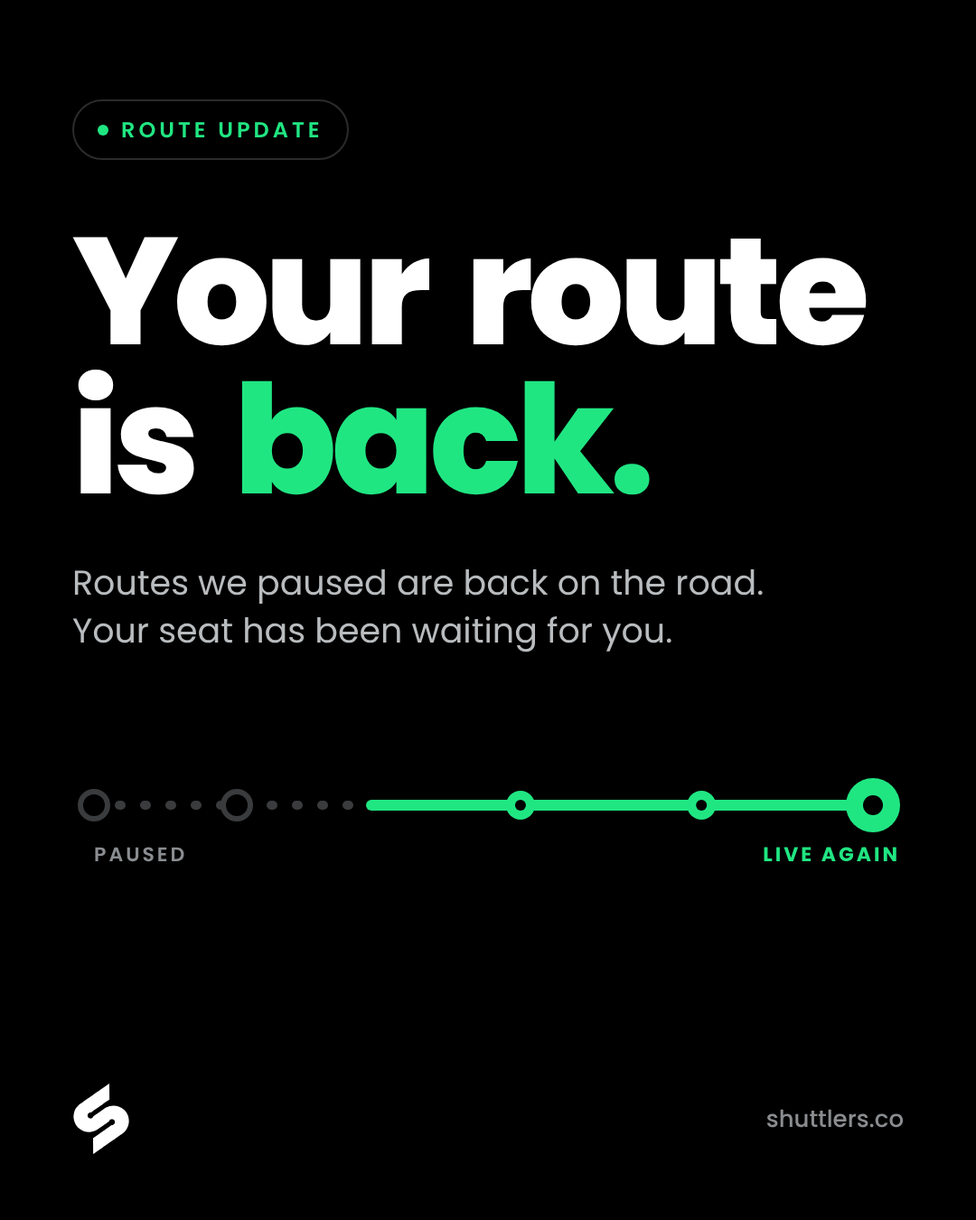
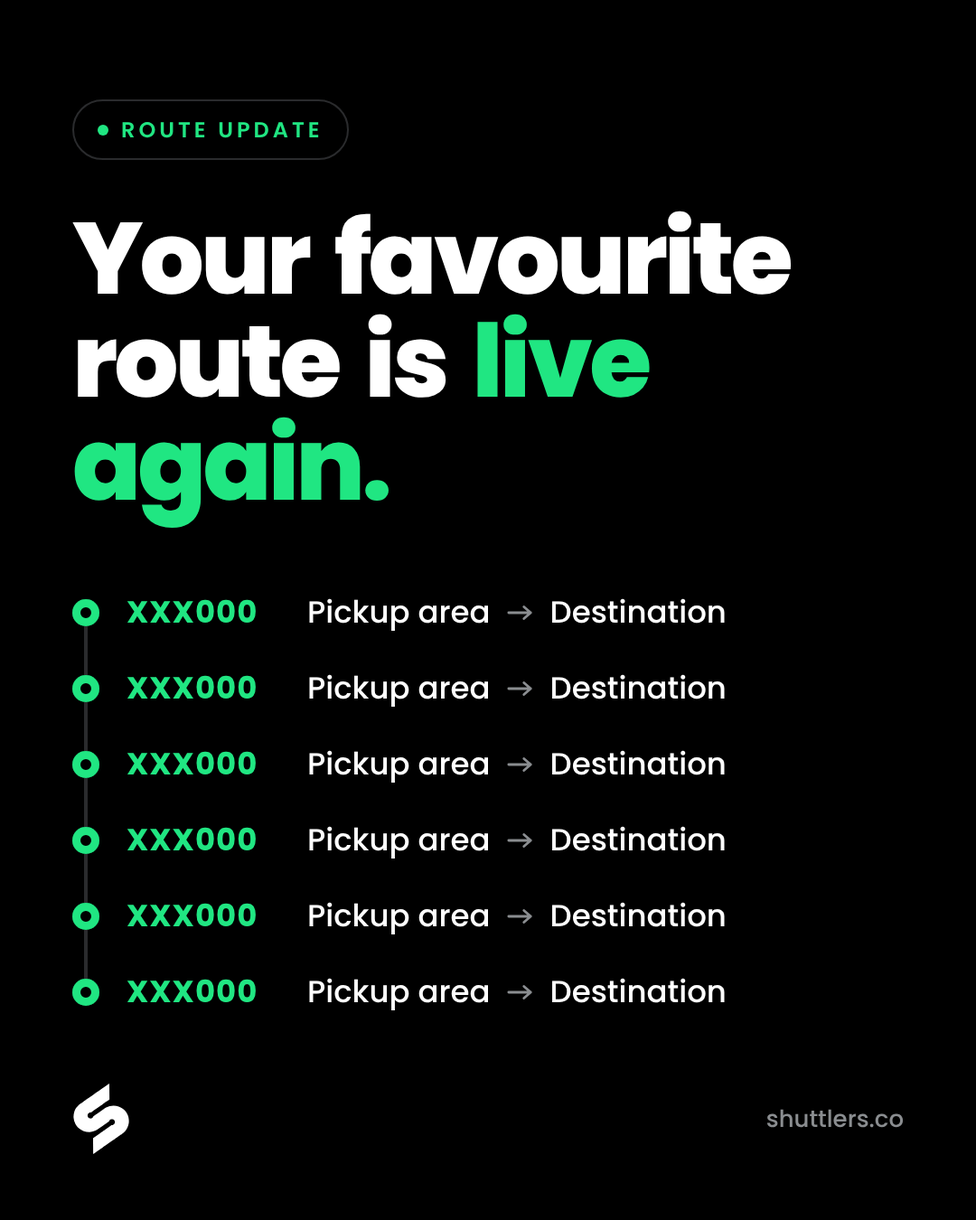
Route reactivation posts: 'Your favourite route is live again' headline with route list
Claude-Session: https://claude.ai/code/session_01ApNoEGoK6cJkGfaQAP275M

diff --git a/social/route-reactivation/posts.html b/social/route-reactivation/posts.html
@@ -14,7 +14,7 @@
 body{background:#1a1a1a;font-family:Poppins,sans-serif;-webkit-font-smoothing:antialiased;padding:40px;display:flex;flex-wrap:wrap;gap:40px}
 .frame{position:relative;overflow:hidden;flex:none}
 .pad{position:absolute;inset:0;padding:110px 80px 0}
-.pad.story{padding-top:260px}
+.pad.story{padding-top:220px}
 .pill{display:inline-flex;align-items:center;gap:14px;border:2px solid;border-radius:999px;padding:14px 26px;font-weight:600;font-size:24px;letter-spacing:4px}
 .pill i{width:12px;height:12px;border-radius:50%}
 .hero{font-weight:800;font-size:168px;line-height:.98;letter-spacing:-.035em;word-spacing:.1em;margin-top:64px}
@@ -32,9 +32,17 @@ body{background:#1a1a1a;font-family:Poppins,sans-serif;-webkit-font-smoothing:an
 .steps li{display:flex;align-items:center;gap:32px;color:#fff;font-size:44px;font-weight:500}
 .steps .n{width:84px;height:84px;border-radius:50%;border:3px solid #20E682;color:#20E682;display:grid;place-items:center;font-weight:700;font-size:36px;flex:none}
 .cta{display:inline-block;margin-top:84px;border-radius:999px;padding:30px 52px;font-weight:700;font-size:34px}
-.story .cta{margin-top:150px}
+.story .cta{margin-top:72px}
 .chips{display:grid;grid-template-columns:repeat(3,1fr);gap:22px;margin-top:84px}
 .chip{background:#000;color:#20E682;border-radius:22px;padding:30px 0;text-align:center;font-weight:700;font-size:40px;letter-spacing:2px}
+.hero.sm{font-size:112px;line-height:1.02;margin-top:52px}
+.rlist{list-style:none;margin-top:64px;position:relative}
+.rlist:before{content:"";position:absolute;left:13px;top:40px;bottom:40px;width:4px;background:#2A2B2D}
+.rlist li{position:relative;display:flex;align-items:center;gap:30px;height:84px;color:#fff;font-size:34px;font-weight:500}
+.rlist .stop{width:30px;height:30px;border-radius:50%;background:#20E682;box-shadow:inset 0 0 0 9px #20E682,inset 0 0 0 30px #000;flex:none;position:relative}
+.rlist b{color:#20E682;font-weight:700;letter-spacing:1px;min-width:170px}
+.rlist span{display:flex;align-items:center}
+.rlist .arr{width:30px;height:20px;margin:0 18px}
 .note{font-size:32px;margin-top:56px;line-height:1.4}
 .foot{position:absolute;left:80px;right:80px;bottom:72px;display:flex;justify-content:space-between;align-items:center}
 .brand{display:flex;align-items:center;gap:6px;font-weight:700;font-size:40px;letter-spacing:-.02em}
@@ -45,17 +53,16 @@ body{background:#1a1a1a;font-family:Poppins,sans-serif;-webkit-font-smoothing:an
 <section class="frame" id="f-01-hero-4x5" style="width:1080px;height:1350px;background:#000000">
       <div class="pad">
         <div class="pill" style="border-color:#2A2B2D;color:#20E682"><i style="background:#20E682"></i>ROUTE UPDATE</div>
-        <h1 class="hero" style="color:#fff">Your route<br>is <em style="color:#20E682">back.</em></h1>
-        <p class="lede" style="color:#B9BCBE">Routes we paused are back on the road. Your seat has been waiting for you.</p>
-        <div class="routewrap"><svg viewBox="0 0 920 140" width="920" height="140" class="route">
-    <line x1="24" y1="70" x2="331" y2="70" stroke="#3A3B3D" stroke-width="10" stroke-linecap="round" stroke-dasharray="2 26"/>
-    <line x1="331" y1="70" x2="886" y2="70" stroke="#20E682" stroke-width="12" stroke-linecap="round"/>
-    <circle cx="24" cy="70" r="15" fill="#000000" stroke="#3A3B3D" stroke-width="6"/><circle cx="182.05" cy="70" r="15" fill="#000000" stroke="#3A3B3D" stroke-width="6"/>
-    <circle cx="495.92" cy="70" r="16" fill="#20E682"/><circle cx="495.92" cy="70" r="6" fill="#000000"/><circle cx="696.1800000000001" cy="70" r="16" fill="#20E682"/><circle cx="696.1800000000001" cy="70" r="6" fill="#000000"/>
-    <circle cx="886" cy="70" r="30" fill="#20E682"/><circle cx="886" cy="70" r="11" fill="#000000"/>
-    <text x="24" y="132" fill="#8A8D90" font-family="Poppins" font-weight="600" font-size="22" letter-spacing="3">PAUSED</text>
-    <text x="916" y="132" fill="#20E682" font-family="Poppins" font-weight="700" font-size="22" letter-spacing="3" text-anchor="end">LIVE AGAIN</text>
-  </svg></div>
+        <h1 class="hero sm" style="color:#fff">Your favourite<br>route is <em style="color:#20E682">live again.</em></h1>
+        
+  <ul class="rlist">
+    <li><i class="stop"></i><b>XXX000</b><span>Pickup area<svg class="arr" viewBox="0 0 32 20"><path d="M2 10h26M20 3l8 7-8 7" fill="none" stroke="#8A8D90" stroke-width="3" stroke-linecap="round" stroke-linejoin="round"/></svg>Destination</span></li>
+    <li><i class="stop"></i><b>XXX000</b><span>Pickup area<svg class="arr" viewBox="0 0 32 20"><path d="M2 10h26M20 3l8 7-8 7" fill="none" stroke="#8A8D90" stroke-width="3" stroke-linecap="round" stroke-linejoin="round"/></svg>Destination</span></li>
+    <li><i class="stop"></i><b>XXX000</b><span>Pickup area<svg class="arr" viewBox="0 0 32 20"><path d="M2 10h26M20 3l8 7-8 7" fill="none" stroke="#8A8D90" stroke-width="3" stroke-linecap="round" stroke-linejoin="round"/></svg>Destination</span></li>
+    <li><i class="stop"></i><b>XXX000</b><span>Pickup area<svg class="arr" viewBox="0 0 32 20"><path d="M2 10h26M20 3l8 7-8 7" fill="none" stroke="#8A8D90" stroke-width="3" stroke-linecap="round" stroke-linejoin="round"/></svg>Destination</span></li>
+    <li><i class="stop"></i><b>XXX000</b><span>Pickup area<svg class="arr" viewBox="0 0 32 20"><path d="M2 10h26M20 3l8 7-8 7" fill="none" stroke="#8A8D90" stroke-width="3" stroke-linecap="round" stroke-linejoin="round"/></svg>Destination</span></li>
+    <li><i class="stop"></i><b>XXX000</b><span>Pickup area<svg class="arr" viewBox="0 0 32 20"><path d="M2 10h26M20 3l8 7-8 7" fill="none" stroke="#8A8D90" stroke-width="3" stroke-linecap="round" stroke-linejoin="round"/></svg>Destination</span></li>
+  </ul>
       </div>
       
   <div class="foot" style="color:#fff">
@@ -93,32 +100,19 @@ body{background:#1a1a1a;font-family:Poppins,sans-serif;-webkit-font-smoothing:an
     <div class="brand"><svg class="mark" xmlns="http://www.w3.org/2000/svg" viewBox="355 195 1212 1532"><path fill="currentColor" transform="translate(1133.0,215.0)" d="M0 0 C0.527 42.914 0.932 85.827 1.175 128.743 C1.203 133.814 1.233 138.886 1.263 143.958 C1.269 144.967 1.275 145.977 1.282 147.017 C1.382 163.345 1.563 179.671 1.775 195.998 C1.99 212.762 2.117 229.526 2.164 246.292 C2.196 256.631 2.295 266.965 2.482 277.303 C2.604 284.401 2.64 291.496 2.611 298.596 C2.596 302.688 2.618 306.772 2.742 310.862 C3.428 334.632 3.428 334.632 -2.218 341.827 C-7.585 346.77 -13.564 350.217 -20.064 353.456 C-24.743 355.917 -28.927 359.014 -33.188 362.125 C-34.825 363.277 -36.464 364.425 -38.105 365.57 C-38.509 365.853 -38.509 365.853 -40.548 367.282 C-44.698 370.19 -48.849 373.095 -53 376 C-54.667 377.167 -56.333 378.333 -58 379.5 C-128 428.5 -128 428.5 -130.501 430.25 C-132.165 431.415 -133.829 432.581 -135.493 433.746 C-139.697 436.688 -143.901 439.63 -148.105 442.57 C-155.914 448.032 -163.718 453.5 -171.5 459 C-180.131 465.101 -188.79 471.161 -197.452 477.218 C-201.635 480.144 -205.818 483.072 -210 486 C-211.667 487.167 -213.333 488.333 -215 489.5 C-215.825 490.077 -216.65 490.655 -217.5 491.25 C-260 521 -302.5 550.75 -345 580.5 C-345.826 581.078 -346.651 581.656 -347.502 582.251 C-349.163 583.414 -350.824 584.576 -352.485 585.739 C-357.61 589.327 -362.735 592.915 -367.858 596.507 C-369.559 597.698 -371.263 598.886 -372.968 600.071 C-376.632 602.619 -380.272 605.181 -383.828 607.879 C-393.125 614.855 -393.125 614.855 -399.426 614.133 C-408.589 613.66 -419.063 616.569 -427 621 C-427.83 621.455 -428.66 621.91 -429.516 622.379 C-445.184 631.363 -453.951 644.495 -459.105 661.688 C-463.193 678.732 -459.549 695.903 -451.031 710.863 C-441.202 726.042 -426.838 734.261 -409.582 738.609 C-391.625 741.326 -374.785 737.253 -359.977 726.883 C-350.105 719.299 -343.439 710.299 -339.938 698.312 C-336.98 690.039 -330.518 686.845 -323.349 682.472 C-319.203 679.874 -315.24 677.016 -311.25 674.188 C-309.547 672.993 -307.844 671.799 -306.141 670.605 C-305.29 670.009 -304.44 669.413 -303.564 668.798 C-299.378 665.863 -295.189 662.932 -291 660 C-289.333 658.833 -287.667 657.667 -286 656.5 C-256 635.5 -256 635.5 -253.499 633.75 C-251.835 632.585 -250.171 631.419 -248.507 630.254 C-244.303 627.312 -240.099 624.37 -235.895 621.43 C-228.086 615.968 -220.282 610.5 -212.5 605 C-203.869 598.899 -195.21 592.839 -186.548 586.782 C-182.365 583.856 -178.182 580.928 -174 578 C-172.333 576.833 -170.667 575.667 -169 574.5 C-168.175 573.923 -167.35 573.345 -166.5 572.75 C-157.333 566.333 -148.167 559.917 -139 553.5 C-138.175 552.922 -137.349 552.344 -136.499 551.749 C-134.836 550.585 -133.174 549.422 -131.511 548.259 C-127.278 545.297 -123.049 542.332 -118.824 539.359 C-102.565 527.925 -86.207 516.971 -69 507 C-68.313 506.599 -67.626 506.199 -66.917 505.786 C-20.813 479.212 34.14 466.787 87 466.75 C87.44 466.75 87.44 466.75 89.67 466.748 C164.833 466.839 238.1 493.077 296 541 C296.481 541.388 296.481 541.388 298.914 543.352 C306.979 549.974 314.422 557.208 321.812 564.562 C322.3 565.045 322.788 565.528 323.291 566.025 C329.989 572.667 336.169 579.581 342 587 C342.58 587.731 343.159 588.462 343.757 589.215 C355.403 604.007 365.524 619.365 374.747 635.772 C375.526 637.157 376.31 638.54 377.101 639.919 C403.117 685.313 415.203 740.036 415.25 792 C415.251 792.781 415.252 793.562 415.253 794.366 C415.24 809.724 414.131 824.778 412 840 C411.861 841.002 411.722 842.005 411.578 843.038 C402.777 903.942 375.869 962.022 335 1008 C334.347 1008.739 333.694 1009.478 333.021 1010.24 C321.339 1023.359 309.053 1036.396 295 1047 C293.789 1047.949 292.58 1048.9 291.371 1049.852 C280.501 1058.356 269.207 1066.212 257.843 1074.038 C253.485 1077.046 249.148 1080.084 244.812 1083.125 C243.173 1084.273 241.534 1085.422 239.895 1086.57 C239.491 1086.853 239.491 1086.853 237.452 1088.282 C233.302 1091.19 229.151 1094.095 225 1097 C223.333 1098.167 221.667 1099.333 220 1100.5 C150 1149.5 150 1149.5 147.499 1151.25 C145.835 1152.415 144.171 1153.581 142.507 1154.746 C138.303 1157.688 134.099 1160.63 129.895 1163.57 C122.086 1169.032 114.282 1174.5 106.5 1180 C97.869 1186.101 89.21 1192.161 80.548 1198.218 C76.365 1201.144 72.182 1204.072 68 1207 C66.333 1208.167 64.667 1209.333 63 1210.5 C62.175 1211.078 61.35 1211.655 60.5 1212.25 C-127 1343.5 -127 1343.5 -129.501 1345.25 C-131.165 1346.415 -132.829 1347.581 -134.493 1348.746 C-138.697 1351.688 -142.901 1354.63 -147.105 1357.57 C-154.914 1363.032 -162.718 1368.5 -170.5 1374 C-179.131 1380.101 -187.79 1386.161 -196.452 1392.218 C-200.635 1395.144 -204.818 1398.072 -209 1401 C-210.667 1402.167 -212.333 1403.333 -214 1404.5 C-214.825 1405.078 -215.65 1405.655 -216.5 1406.25 C-245.667 1426.667 -274.833 1447.083 -304 1467.5 C-304.826 1468.079 -305.653 1468.657 -306.504 1469.253 C-308.157 1470.41 -309.809 1471.566 -311.463 1472.721 C-315.849 1475.789 -320.228 1478.866 -324.598 1481.957 C-325.512 1482.602 -326.427 1483.247 -327.369 1483.912 C-329.129 1485.154 -330.887 1486.399 -332.643 1487.646 C-333.432 1488.203 -334.222 1488.759 -335.035 1489.332 C-335.73 1489.824 -336.425 1490.316 -337.141 1490.823 C-339 1492 -339 1492 -342 1493 C-342.458 1450.052 -342.81 1407.105 -343.021 1364.155 C-343.046 1359.081 -343.072 1354.007 -343.099 1348.933 C-343.104 1347.922 -343.109 1346.912 -343.115 1345.872 C-343.201 1329.53 -343.359 1313.189 -343.543 1296.848 C-343.73 1280.072 -343.841 1263.297 -343.882 1246.519 C-343.909 1236.172 -343.996 1225.828 -344.158 1215.481 C-344.264 1208.38 -344.296 1201.28 -344.27 1194.177 C-344.257 1190.082 -344.276 1185.993 -344.384 1181.899 C-344.98 1158.09 -344.98 1158.09 -340.089 1151.378 C-335.501 1146.964 -330.361 1144.062 -324.644 1141.349 C-320.111 1139.036 -316.102 1135.993 -312 1133 C-310.336 1131.83 -308.669 1130.663 -307 1129.5 C-306.175 1128.922 -305.35 1128.345 -304.5 1127.75 C-137 1010.5 -137 1010.5 -134.499 1008.75 C-132.835 1007.585 -131.171 1006.419 -129.507 1005.254 C-125.303 1002.312 -121.099 999.37 -116.895 996.43 C-109.086 990.968 -101.282 985.5 -93.5 980 C-84.869 973.899 -76.21 967.839 -67.548 961.782 C-63.365 958.856 -59.182 955.928 -55 953 C-53.333 951.833 -51.667 950.667 -50 949.5 C-49.175 948.923 -48.35 948.345 -47.5 947.75 C-0 914.5 -0 914.5 2.501 912.749 C4.163 911.586 5.825 910.422 7.487 909.259 C11.727 906.29 15.968 903.323 20.211 900.359 C20.639 900.06 20.639 900.06 22.805 898.544 C24.507 897.356 26.213 896.173 27.922 894.995 C31.618 892.437 35.229 889.87 38.664 886.969 C46.94 880.12 53.641 878.907 64.285 878.336 C70.304 877.999 75.501 876.438 81 874 C81.906 873.602 82.812 873.203 83.746 872.793 C99.314 865.131 109.225 852.248 115 836.121 C120.488 818.993 118.618 801.8 110.46 785.841 C101.978 770.367 88.646 761.333 72 756 C55.185 751.131 37.953 754.339 22.836 762.645 C10.254 770.065 1.504 781.228 -3.062 795.125 C-6.076 802.644 -12.096 806.158 -18.607 810.417 C-22.204 812.796 -25.724 815.284 -29.255 817.759 C-32.216 819.832 -35.185 821.892 -38.156 823.949 C-43.511 827.658 -48.853 831.387 -54.188 835.125 C-55 835.695 -55.813 836.264 -56.651 836.851 C-58.284 837.995 -59.916 839.138 -61.548 840.282 C-65.698 843.19 -69.849 846.095 -74 849 C-75.667 850.167 -77.333 851.333 -79 852.5 C-122.333 882.833 -165.667 913.167 -209 943.5 C-209.825 944.078 -210.65 944.655 -211.5 945.25 C-213.166 946.416 -214.832 947.581 -216.498 948.746 C-220.686 951.674 -224.868 954.612 -229.035 957.57 C-284.317 996.726 -348.45 1025.86 -417.406 1026.203 C-417.884 1026.207 -417.884 1026.207 -420.299 1026.225 C-503.535 1026.7 -583.041 1001.806 -646 946 C-646.945 945.166 -647.89 944.332 -648.863 943.473 C-661.423 932.171 -673.664 920.392 -684 907 C-684.399 906.515 -684.399 906.515 -686.418 904.062 C-699.774 887.76 -711.436 869.774 -721 851 C-721.237 850.536 -721.237 850.536 -722.436 848.186 C-741.448 810.559 -753.539 770.107 -757 728 C-757.111 726.743 -757.222 725.486 -757.336 724.191 C-763.553 642.112 -737.768 557.402 -685 494 C-684.137 492.944 -683.273 491.888 -682.41 490.832 C-658.324 461.629 -629.859 439.388 -598.859 417.979 C-594.498 414.961 -590.155 411.919 -585.812 408.875 C-584.999 408.305 -584.186 407.736 -583.349 407.149 C-581.716 406.005 -580.084 404.862 -578.452 403.718 C-574.302 400.81 -570.151 397.905 -566 395 C-564.333 393.833 -562.667 392.667 -561 391.5 C-478.5 333.75 -396 276 -48.499 32.749 C-46.837 31.586 -45.175 30.422 -43.513 29.259 C-39.273 26.29 -35.032 23.323 -30.789 20.359 C-29.068 19.156 -27.346 17.953 -25.625 16.75 C-25.211 16.461 -25.211 16.461 -23.118 15 C-19.294 12.325 -15.482 9.637 -11.703 6.898 C-11.051 6.427 -10.4 5.955 -9.728 5.47 C-8.527 4.598 -7.33 3.723 -6.135 2.843 C-2.219 0 -2.219 0 0 0 Z "/></svg></div>
     <span class="url" style="color:#8A8D90">shuttlers.co</span>
   </div></section>
-<section class="frame" id="f-04-route-list-4x5-optional" style="width:1080px;height:1350px;background:#20E682">
-      <div class="pad">
-        <div class="kicker" style="color:#000000">BACK FROM MONDAY, [DATE]</div>
-        <h2 class="h2" style="color:#000000">Back on<br>the road.</h2>
-        <div class="chips"><span class="chip">XXX000</span><span class="chip">XXX000</span><span class="chip">XXX000</span><span class="chip">XXX000</span><span class="chip">XXX000</span><span class="chip">XXX000</span></div>
-        <p class="note" style="color:rgba(0,0,0,.7)">Search any of these codes on the Shuttlers app to book.</p>
-      </div>
-      
-  <div class="foot" style="color:#000000">
-    <div class="brand"><svg class="mark" xmlns="http://www.w3.org/2000/svg" viewBox="355 195 1212 1532"><path fill="currentColor" transform="translate(1133.0,215.0)" d="M0 0 C0.527 42.914 0.932 85.827 1.175 128.743 C1.203 133.814 1.233 138.886 1.263 143.958 C1.269 144.967 1.275 145.977 1.282 147.017 C1.382 163.345 1.563 179.671 1.775 195.998 C1.99 212.762 2.117 229.526 2.164 246.292 C2.196 256.631 2.295 266.965 2.482 277.303 C2.604 284.401 2.64 291.496 2.611 298.596 C2.596 302.688 2.618 306.772 2.742 310.862 C3.428 334.632 3.428 334.632 -2.218 341.827 C-7.585 346.77 -13.564 350.217 -20.064 353.456 C-24.743 355.917 -28.927 359.014 -33.188 362.125 C-34.825 363.277 -36.464 364.425 -38.105 365.57 C-38.509 365.853 -38.509 365.853 -40.548 367.282 C-44.698 370.19 -48.849 373.095 -53 376 C-54.667 377.167 -56.333 378.333 -58 379.5 C-128 428.5 -128 428.5 -130.501 430.25 C-132.165 431.415 -133.829 432.581 -135.493 433.746 C-139.697 436.688 -143.901 439.63 -148.105 442.57 C-155.914 448.032 -163.718 453.5 -171.5 459 C-180.131 465.101 -188.79 471.161 -197.452 477.218 C-201.635 480.144 -205.818 483.072 -210 486 C-211.667 487.167 -213.333 488.333 -215 489.5 C-215.825 490.077 -216.65 490.655 -217.5 491.25 C-260 521 -302.5 550.75 -345 580.5 C-345.826 581.078 -346.651 581.656 -347.502 582.251 C-349.163 583.414 -350.824 584.576 -352.485 585.739 C-357.61 589.327 -362.735 592.915 -367.858 596.507 C-369.559 597.698 -371.263 598.886 -372.968 600.071 C-376.632 602.619 -380.272 605.181 -383.828 607.879 C-393.125 614.855 -393.125 614.855 -399.426 614.133 C-408.589 613.66 -419.063 616.569 -427 621 C-427.83 621.455 -428.66 621.91 -429.516 622.379 C-445.184 631.363 -453.951 644.495 -459.105 661.688 C-463.193 678.732 -459.549 695.903 -451.031 710.863 C-441.202 726.042 -426.838 734.261 -409.582 738.609 C-391.625 741.326 -374.785 737.253 -359.977 726.883 C-350.105 719.299 -343.439 710.299 -339.938 698.312 C-336.98 690.039 -330.518 686.845 -323.349 682.472 C-319.203 679.874 -315.24 677.016 -311.25 674.188 C-309.547 672.993 -307.844 671.799 -306.141 670.605 C-305.29 670.009 -304.44 669.413 -303.564 668.798 C-299.378 665.863 -295.189 662.932 -291 660 C-289.333 658.833 -287.667 657.667 -286 656.5 C-256 635.5 -256 635.5 -253.499 633.75 C-251.835 632.585 -250.171 631.419 -248.507 630.254 C-244.303 627.312 -240.099 624.37 -235.895 621.43 C-228.086 615.968 -220.282 610.5 -212.5 605 C-203.869 598.899 -195.21 592.839 -186.548 586.782 C-182.365 583.856 -178.182 580.928 -174 578 C-172.333 576.833 -170.667 575.667 -169 574.5 C-168.175 573.923 -167.35 573.345 -166.5 572.75 C-157.333 566.333 -148.167 559.917 -139 553.5 C-138.175 552.922 -137.349 552.344 -136.499 551.749 C-134.836 550.585 -133.174 549.422 -131.511 548.259 C-127.278 545.297 -123.049 542.332 -118.824 539.359 C-102.565 527.925 -86.207 516.971 -69 507 C-68.313 506.599 -67.626 506.199 -66.917 505.786 C-20.813 479.212 34.14 466.787 87 466.75 C87.44 466.75 87.44 466.75 89.67 466.748 C164.833 466.839 238.1 493.077 296 541 C296.481 541.388 296.481 541.388 298.914 543.352 C306.979 549.974 314.422 557.208 321.812 564.562 C322.3 565.045 322.788 565.528 323.291 566.025 C329.989 572.667 336.169 579.581 342 587 C342.58 587.731 343.159 588.462 343.757 589.215 C355.403 604.007 365.524 619.365 374.747 635.772 C375.526 637.157 376.31 638.54 377.101 639.919 C403.117 685.313 415.203 740.036 415.25 792 C415.251 792.781 415.252 793.562 415.253 794.366 C415.24 809.724 414.131 824.778 412 840 C411.861 841.002 411.722 842.005 411.578 843.038 C402.777 903.942 375.869 962.022 335 1008 C334.347 1008.739 333.694 1009.478 333.021 1010.24 C321.339 1023.359 309.053 1036.396 295 1047 C293.789 1047.949 292.58 1048.9 291.371 1049.852 C280.501 1058.356 269.207 1066.212 257.843 1074.038 C253.485 1077.046 249.148 1080.084 244.812 1083.125 C243.173 1084.273 241.534 1085.422 239.895 1086.57 C239.491 1086.853 239.491 1086.853 237.452 1088.282 C233.302 1091.19 229.151 1094.095 225 1097 C223.333 1098.167 221.667 1099.333 220 1100.5 C150 1149.5 150 1149.5 147.499 1151.25 C145.835 1152.415 144.171 1153.581 142.507 1154.746 C138.303 1157.688 134.099 1160.63 129.895 1163.57 C122.086 1169.032 114.282 1174.5 106.5 1180 C97.869 1186.101 89.21 1192.161 80.548 1198.218 C76.365 1201.144 72.182 1204.072 68 1207 C66.333 1208.167 64.667 1209.333 63 1210.5 C62.175 1211.078 61.35 1211.655 60.5 1212.25 C-127 1343.5 -127 1343.5 -129.501 1345.25 C-131.165 1346.415 -132.829 1347.581 -134.493 1348.746 C-138.697 1351.688 -142.901 1354.63 -147.105 1357.57 C-154.914 1363.032 -162.718 1368.5 -170.5 1374 C-179.131 1380.101 -187.79 1386.161 -196.452 1392.218 C-200.635 1395.144 -204.818 1398.072 -209 1401 C-210.667 1402.167 -212.333 1403.333 -214 1404.5 C-214.825 1405.078 -215.65 1405.655 -216.5 1406.25 C-245.667 1426.667 -274.833 1447.083 -304 1467.5 C-304.826 1468.079 -305.653 1468.657 -306.504 1469.253 C-308.157 1470.41 -309.809 1471.566 -311.463 1472.721 C-315.849 1475.789 -320.228 1478.866 -324.598 1481.957 C-325.512 1482.602 -326.427 1483.247 -327.369 1483.912 C-329.129 1485.154 -330.887 1486.399 -332.643 1487.646 C-333.432 1488.203 -334.222 1488.759 -335.035 1489.332 C-335.73 1489.824 -336.425 1490.316 -337.141 1490.823 C-339 1492 -339 1492 -342 1493 C-342.458 1450.052 -342.81 1407.105 -343.021 1364.155 C-343.046 1359.081 -343.072 1354.007 -343.099 1348.933 C-343.104 1347.922 -343.109 1346.912 -343.115 1345.872 C-343.201 1329.53 -343.359 1313.189 -343.543 1296.848 C-343.73 1280.072 -343.841 1263.297 -343.882 1246.519 C-343.909 1236.172 -343.996 1225.828 -344.158 1215.481 C-344.264 1208.38 -344.296 1201.28 -344.27 1194.177 C-344.257 1190.082 -344.276 1185.993 -344.384 1181.899 C-344.98 1158.09 -344.98 1158.09 -340.089 1151.378 C-335.501 1146.964 -330.361 1144.062 -324.644 1141.349 C-320.111 1139.036 -316.102 1135.993 -312 1133 C-310.336 1131.83 -308.669 1130.663 -307 1129.5 C-306.175 1128.922 -305.35 1128.345 -304.5 1127.75 C-137 1010.5 -137 1010.5 -134.499 1008.75 C-132.835 1007.585 -131.171 1006.419 -129.507 1005.254 C-125.303 1002.312 -121.099 999.37 -116.895 996.43 C-109.086 990.968 -101.282 985.5 -93.5 980 C-84.869 973.899 -76.21 967.839 -67.548 961.782 C-63.365 958.856 -59.182 955.928 -55 953 C-53.333 951.833 -51.667 950.667 -50 949.5 C-49.175 948.923 -48.35 948.345 -47.5 947.75 C-0 914.5 -0 914.5 2.501 912.749 C4.163 911.586 5.825 910.422 7.487 909.259 C11.727 906.29 15.968 903.323 20.211 900.359 C20.639 900.06 20.639 900.06 22.805 898.544 C24.507 897.356 26.213 896.173 27.922 894.995 C31.618 892.437 35.229 889.87 38.664 886.969 C46.94 880.12 53.641 878.907 64.285 878.336 C70.304 877.999 75.501 876.438 81 874 C81.906 873.602 82.812 873.203 83.746 872.793 C99.314 865.131 109.225 852.248 115 836.121 C120.488 818.993 118.618 801.8 110.46 785.841 C101.978 770.367 88.646 761.333 72 756 C55.185 751.131 37.953 754.339 22.836 762.645 C10.254 770.065 1.504 781.228 -3.062 795.125 C-6.076 802.644 -12.096 806.158 -18.607 810.417 C-22.204 812.796 -25.724 815.284 -29.255 817.759 C-32.216 819.832 -35.185 821.892 -38.156 823.949 C-43.511 827.658 -48.853 831.387 -54.188 835.125 C-55 835.695 -55.813 836.264 -56.651 836.851 C-58.284 837.995 -59.916 839.138 -61.548 840.282 C-65.698 843.19 -69.849 846.095 -74 849 C-75.667 850.167 -77.333 851.333 -79 852.5 C-122.333 882.833 -165.667 913.167 -209 943.5 C-209.825 944.078 -210.65 944.655 -211.5 945.25 C-213.166 946.416 -214.832 947.581 -216.498 948.746 C-220.686 951.674 -224.868 954.612 -229.035 957.57 C-284.317 996.726 -348.45 1025.86 -417.406 1026.203 C-417.884 1026.207 -417.884 1026.207 -420.299 1026.225 C-503.535 1026.7 -583.041 1001.806 -646 946 C-646.945 945.166 -647.89 944.332 -648.863 943.473 C-661.423 932.171 -673.664 920.392 -684 907 C-684.399 906.515 -684.399 906.515 -686.418 904.062 C-699.774 887.76 -711.436 869.774 -721 851 C-721.237 850.536 -721.237 850.536 -722.436 848.186 C-741.448 810.559 -753.539 770.107 -757 728 C-757.111 726.743 -757.222 725.486 -757.336 724.191 C-763.553 642.112 -737.768 557.402 -685 494 C-684.137 492.944 -683.273 491.888 -682.41 490.832 C-658.324 461.629 -629.859 439.388 -598.859 417.979 C-594.498 414.961 -590.155 411.919 -585.812 408.875 C-584.999 408.305 -584.186 407.736 -583.349 407.149 C-581.716 406.005 -580.084 404.862 -578.452 403.718 C-574.302 400.81 -570.151 397.905 -566 395 C-564.333 393.833 -562.667 392.667 -561 391.5 C-478.5 333.75 -396 276 -48.499 32.749 C-46.837 31.586 -45.175 30.422 -43.513 29.259 C-39.273 26.29 -35.032 23.323 -30.789 20.359 C-29.068 19.156 -27.346 17.953 -25.625 16.75 C-25.211 16.461 -25.211 16.461 -23.118 15 C-19.294 12.325 -15.482 9.637 -11.703 6.898 C-11.051 6.427 -10.4 5.955 -9.728 5.47 C-8.527 4.598 -7.33 3.723 -6.135 2.843 C-2.219 0 -2.219 0 0 0 Z "/></svg></div>
-    <span class="url" style="color:rgba(0,0,0,.6)">shuttlers.co</span>
-  </div></section>
 <section class="frame story" id="f-05-story-9x16" style="width:1080px;height:1920px;background:#000000">
       <div class="pad story">
         <div class="pill" style="border-color:#2A2B2D;color:#20E682"><i style="background:#20E682"></i>ROUTE UPDATE</div>
-        <h1 class="hero" style="color:#fff">Your route<br>is <em style="color:#20E682">back.</em></h1>
-        <p class="lede" style="color:#B9BCBE">Paused routes are live again. Search your route code on the app and book your seat.</p>
-        <div class="routewrap"><svg viewBox="0 0 920 140" width="920" height="140" class="route">
-    <line x1="24" y1="70" x2="331" y2="70" stroke="#3A3B3D" stroke-width="10" stroke-linecap="round" stroke-dasharray="2 26"/>
-    <line x1="331" y1="70" x2="886" y2="70" stroke="#20E682" stroke-width="12" stroke-linecap="round"/>
-    <circle cx="24" cy="70" r="15" fill="#000000" stroke="#3A3B3D" stroke-width="6"/><circle cx="182.05" cy="70" r="15" fill="#000000" stroke="#3A3B3D" stroke-width="6"/>
-    <circle cx="495.92" cy="70" r="16" fill="#20E682"/><circle cx="495.92" cy="70" r="6" fill="#000000"/><circle cx="696.1800000000001" cy="70" r="16" fill="#20E682"/><circle cx="696.1800000000001" cy="70" r="6" fill="#000000"/>
-    <circle cx="886" cy="70" r="30" fill="#20E682"/><circle cx="886" cy="70" r="11" fill="#000000"/>
-    <text x="24" y="132" fill="#8A8D90" font-family="Poppins" font-weight="600" font-size="22" letter-spacing="3">PAUSED</text>
-    <text x="916" y="132" fill="#20E682" font-family="Poppins" font-weight="700" font-size="22" letter-spacing="3" text-anchor="end">LIVE AGAIN</text>
-  </svg></div>
+        <h1 class="hero sm" style="color:#fff">Your favourite<br>route is <em style="color:#20E682">live again.</em></h1>
+        
+  <ul class="rlist">
+    <li><i class="stop"></i><b>XXX000</b><span>Pickup area<svg class="arr" viewBox="0 0 32 20"><path d="M2 10h26M20 3l8 7-8 7" fill="none" stroke="#8A8D90" stroke-width="3" stroke-linecap="round" stroke-linejoin="round"/></svg>Destination</span></li>
+    <li><i class="stop"></i><b>XXX000</b><span>Pickup area<svg class="arr" viewBox="0 0 32 20"><path d="M2 10h26M20 3l8 7-8 7" fill="none" stroke="#8A8D90" stroke-width="3" stroke-linecap="round" stroke-linejoin="round"/></svg>Destination</span></li>
+    <li><i class="stop"></i><b>XXX000</b><span>Pickup area<svg class="arr" viewBox="0 0 32 20"><path d="M2 10h26M20 3l8 7-8 7" fill="none" stroke="#8A8D90" stroke-width="3" stroke-linecap="round" stroke-linejoin="round"/></svg>Destination</span></li>
+    <li><i class="stop"></i><b>XXX000</b><span>Pickup area<svg class="arr" viewBox="0 0 32 20"><path d="M2 10h26M20 3l8 7-8 7" fill="none" stroke="#8A8D90" stroke-width="3" stroke-linecap="round" stroke-linejoin="round"/></svg>Destination</span></li>
+    <li><i class="stop"></i><b>XXX000</b><span>Pickup area<svg class="arr" viewBox="0 0 32 20"><path d="M2 10h26M20 3l8 7-8 7" fill="none" stroke="#8A8D90" stroke-width="3" stroke-linecap="round" stroke-linejoin="round"/></svg>Destination</span></li>
+    <li><i class="stop"></i><b>XXX000</b><span>Pickup area<svg class="arr" viewBox="0 0 32 20"><path d="M2 10h26M20 3l8 7-8 7" fill="none" stroke="#8A8D90" stroke-width="3" stroke-linecap="round" stroke-linejoin="round"/></svg>Destination</span></li>
+  </ul>
         <div class="cta" style="background:#20E682;color:#000000">Tap to book your seat</div>
       </div>
       

diff --git a/social/route-reactivation/CAPTIONS.md b/social/route-reactivation/CAPTIONS.md
@@ -1,54 +1,69 @@
 # Route reactivation: social copy
 
-Voice follows the existing Shuttlers route copy (Ads_Copy_Underutilized_Routes, Billboard copy): warm, short and commuter-first, with a light touch of pidgin. Publicly we say the routes were **paused**, not "suspended", because it sounds softer and less operational.
+Voice follows the existing Shuttlers route copy (Ads_Copy_Underutilized_Routes, Billboard copy, "Your Route Is Back in Service"): warm, short and commuter-first, with a light touch of pidgin. Spelling is "favourite" (Nigerian/British English).
 
-Fill in `[DATE]` and `[ROUTE CODES]` before posting. If you'd rather not list codes, drop that line; the post still works.
+Replace `[DATE]` and the route lines before posting. The route list uses the same format as the Critical Routes report: `CODE  Pickup area → Destination`.
 
 ---
 
-## Instagram / Facebook (carousel: 01 → 02 → 03, optional 04)
+## Instagram / Facebook (carousel: 01 → 02 → 03)
 
-> Your route is back. 💚
+> Your favourite route is live again. 💚
 >
-> The routes we paused are back on the road from [DATE], and your seat has been waiting for you.
+> We've brought these routes back on the road from [DATE]:
 >
-> Same guaranteed seat. Same AC. Same peace of mind on your morning commute. No bus-stop wahala.
+> 📍 XXX000 · Pickup area → Destination
+> 📍 XXX000 · Pickup area → Destination
+> 📍 XXX000 · Pickup area → Destination
+> 📍 XXX000 · Pickup area → Destination
+> 📍 XXX000 · Pickup area → Destination
+> 📍 XXX000 · Pickup area → Destination
 >
-> 🚌 Open the Shuttlers app, search your route code ([ROUTE CODES]) and book your seat.
+> Same guaranteed seat. Same AC. No bus-stop wahala.
 >
-> Link in bio to get back on board.
+> 🚌 Open the Shuttlers app, search your route code and book your seat. Link in bio.
 >
 > #Shuttlers #LagosCommute #MoveBetter #LagosTraffic
 
-**Alt text (slide 1):** Black graphic that reads "Your route is back." with "back" in green. Below it, a route line goes from a dotted grey section labelled "Paused" to a solid green section labelled "Live again".
+**Alt text (slide 1):** Black graphic that reads "Your favourite route is live again." with "live again" in green. Below it is a list of reactivated route codes, each with its pickup area and destination, joined by a vertical line of green stops.
 
 ---
 
 ## Instagram Story (05)
 
-Sticker: **Link → "Book your seat"** (place it in the empty space under the CTA)
+Sticker: **Link → "Book your seat"** (place it over or just below the green button)
 
 ---
 
 ## X (Twitter)
 
-> Your route is back. 🚌
+> Your favourite route is live again. 🚌
 >
-> Routes we paused are live again from [DATE]. Search your route code on the Shuttlers app and book your seat.
+> Back from [DATE]:
+> XXX000 Pickup area → Destination
+> XXX000 Pickup area → Destination
+> XXX000 Pickup area → Destination
 >
-> Your seat has been waiting. 💚
+> Search the code on the Shuttlers app and book your seat. 💚
 
-*(Short version, 1 image: slide 01)*
+*(If the full list goes over 280 characters, post slide 01 as the image and keep the tweet to the first line plus the CTA.)*
 
 ---
 
 ## LinkedIn
 
-> Good news for your commute: routes we paused are back on the road from [DATE].
+> Your favourite route is live again.
 >
-> If one of these was your daily route, your guaranteed seat is ready again: [ROUTE CODES].
+> From [DATE], these Shuttlers routes are back on the road:
 >
-> To book, open the Shuttlers app, search your route code and reserve your seat. HR and admin teams, please share this with colleagues who ride with us.
+> • XXX000: Pickup area → Destination
+> • XXX000: Pickup area → Destination
+> • XXX000: Pickup area → Destination
+> • XXX000: Pickup area → Destination
+> • XXX000: Pickup area → Destination
+> • XXX000: Pickup area → Destination
+>
+> To book, open the Shuttlers app, search the route code and reserve your seat. HR and admin teams, please share this with colleagues who ride with us.
 >
 > Thank you for your patience while these routes were paused. We're glad to have you back on board.
 
@@ -56,15 +71,15 @@ Sticker: **Link → "Book your seat"** (place it in the empty space under the CT
 
 ## WhatsApp status / broadcast
 
-> 🚌 Your route is back!
-> Paused Shuttlers routes are live again from [DATE].
-> Search your route code on the app and book your seat 👉 [LINK]
+> 🚌 Your favourite route is live again!
+> From [DATE]: XXX000, XXX000, XXX000, XXX000, XXX000, XXX000
+> Search your route code on the Shuttlers app and book your seat 👉 [LINK]
 
 ---
 
 ## Alternate headlines (if you want to A/B)
 
+- Your favourite route is back on the road.
+- Guess who's back? Your favourite route.
 - Your seat missed you.
-- Back on the road. Back on your route.
-- We're back on your route.
 - Missed us? Your route is live again.
